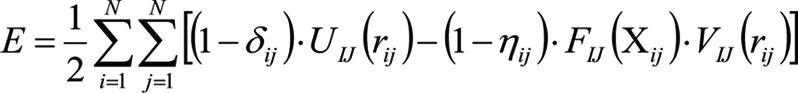
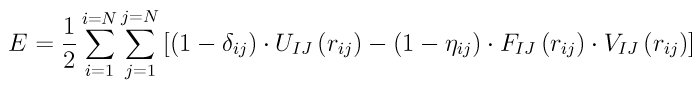
git-svn-id: svn://svn.icms.temple.edu/lammps-ro/trunk@13796 f3b2605a-c512-4ea7-a41b-209d697bcdaa

Changed region(s): [[0.0, 0.0, 1.0, 1.0], [0.33, 0.1111, 0.36, 0.1556]]

diff --git a/doc/Eqs/polymorphic7.tex b/doc/Eqs/polymorphic7.tex
@@ -1,0 +1,25 @@
+\documentclass[12pt]{article}
+
+\begin{document}
+
+\begin{eqnarray*}
+\left\{\begin{array}{l}
+\eta_{ij}=\delta_{ij},\xi_{IJ}=1 \\
+U_{IJ}\left(r\right)=\left\{\begin{array}{lr}
+A_{IJ}\cdot exp\left(-\lambda_{1,IJ}\cdot r\right)\cdot f_{c,IJ}\left(r\right), & r\leq r_{s,1,IJ} \\
+A_{IJ}\cdot exp\left(-\lambda_{1,IJ}\cdot r\right)\cdot f_{c,IJ}\left(r\right)\cdot f_{c,1,IJ}\left(r\right), & r_{s,1,IJ}<r<r_{c,1,IJ} \\
+0, & r\ge r_{c,1,IJ}
+\end{array}\right. \\
+V_{IJ}\left(r\right)=\left\{\begin{array}{lr}
+B_{IJ} \cdot exp\left(-\lambda_{2,IJ}\cdot r\right)\cdot f_{c,IJ}\left(r\right), & r\le r_{s,1,IJ} \\
+B_{IJ} \cdot exp\left(-\lambda_{2,IJ}\cdot r\right)\cdot f_{c,IJ}\left(r\right)+A_{IJ}\cdot exp\left(-\lambda_{1,IJ}\cdot r\right)\cdot & \\ ~~~~~~ f_{c,IJ}\left(r\right)\cdot \left[1-f_{c,1,IJ}\left(r\right)\right], & r_{s,1,IJ}<r<r_{c,1,IJ} \\
+B_{IJ} \cdot exp\left(-\lambda_{2,IJ}\cdot r\right)\cdot f_{c,IJ}\left(r\right)+A_{IJ}\cdot exp\left(-\lambda_{1,IJ}\cdot r\right)\cdot & \\ ~~~~~~ f_{c,IJ}\left(r\right) & r \ge r_{c,1,IJ}
+\end{array}\right. \\
+F_{IJ}\left(X\right)=\left[1+\left(\beta_{IJ}\cdot X\right)^{n_{IJ}}\right]^{-\frac{1}{2n_{IJ}}} \\
+P_{IJ}\left(\Delta r\right)=exp\left(\lambda_{3,IK}\cdot \Delta r^3\right) \\ 
+W_{IJ}\left(r\right)=f_{c,IK}\left(r\right) \\
+G_{JIK}\left(\theta\right)=1+\frac{c_{IK}^2}{d_{IK}^2}-\frac{c_{IK}^2}{d_{IK}^2+\left(h_{IK}+cos\theta\right)^2}
+\end{array}\right.
+\end{eqnarray*} 
+
+\end{document}

diff --git a/doc/Eqs/polymorphic4.tex b/doc/Eqs/polymorphic4.tex
@@ -1,0 +1,17 @@
+\documentclass[12pt]{article}
+
+\begin{document}
+
+\begin{eqnarray*}
+\left\{\begin{array}{l}
+\eta_{ij}=\delta_{ij},\xi_{IJ}=0 \\
+U_{IJ}\left(r\right)=A_{IJ}\cdot\epsilon_{IJ}\cdot \left(\frac{\sigma_{IJ}}{r}\right)^q\cdot \left[B_{IJ}\cdot \left(\frac{\sigma_{IJ}}{r}\right)^{p-q}-1\right]\cdot exp\left(\frac{\sigma_{IJ}}{r-a_{IJ}\cdot \sigma_{IJ}}\right) \\
+V_{IJ}\left(r\right)=\sqrt{\lambda_{IJ}\cdot \epsilon_{IJ}}\cdot exp\left(\frac{\gamma_{IJ}\cdot \sigma_{IJ}}{r-a_{IJ}\cdot \sigma_{IJ}}\right) \\ 
+F_{IJ}\left(X\right)=-X \\
+P_{IJ}\left(\Delta r\right)=1 \\ 
+W_{IJ}\left(r\right)=\sqrt{\lambda_{IJ}\cdot \epsilon_{IJ}}\cdot exp\left(\frac{\gamma_{IJ}\cdot \sigma_{IJ}}{r-a_{IJ}\cdot \sigma_{IJ}}\right) \\
+G_{JIK}\left(\theta\right)=\left(cos\theta+\frac{1}{3}\right)^2
+\end{array}\right.
+\end{eqnarray*} 
+
+\end{document}

diff --git a/doc/Eqs/polymorphic5.tex b/doc/Eqs/polymorphic5.tex
@@ -1,0 +1,17 @@
+\documentclass[12pt]{article}
+
+\begin{document}
+
+\begin{eqnarray*}
+\left\{\begin{array}{l}
+\eta_{ij}=\delta_{ij},\xi_{IJ}=1 \\
+U_{IJ}\left(r\right)=\frac{D_{e,IJ}}{S_{IJ}-1}\cdot exp\left[-\beta_{IJ}\sqrt{2S_{IJ}\left(r-r_{e,IJ}\right)}\right]\cdot f_{c,IJ}\left(r\right) \\
+V_{IJ}\left(r\right)=\frac{S_{IJ}\cdot D_{e,IJ}}{S_{IJ}-1}\cdot exp\left[-\beta_{IJ}\sqrt{\frac{2}{S_{IJ}}\left(r-r_{e,IJ}\right)}\right]\cdot f_{c,IJ}\left(r\right) \\
+F_{IJ}\left(X\right)=\left(1+X\right)^{-\frac{1}{2}} \\
+P_{IJ}\left(\Delta r\right)=exp\left(2\mu_{IK}\cdot \Delta r\right) \\ 
+W_{IJ}\left(r\right)=f_{c,IK}\left(r\right) \\
+G_{JIK}\left(\theta\right)=\gamma_{IK}\left[1+\frac{c_{IK}^2}{d_{IK}^2}-\frac{c_{IK}^2}{d_{IK}^2+\left(h_{IK}+cos\theta\right)^2}\right]
+\end{array}\right.
+\end{eqnarray*} 
+
+\end{document}

diff --git a/doc/Eqs/polymorphic9.tex b/doc/Eqs/polymorphic9.tex
@@ -1,0 +1,17 @@
+\documentclass[12pt]{article}
+
+\begin{document}
+
+\begin{eqnarray*}
+\left\{\begin{array}{l}
+\eta_{ij}=1-\delta_{ij},\xi_{IJ}=0 \\
+U_{IJ}\left(r\right)=\phi_{IJ}\left(r\right) \\
+V_{IJ}\left(r\right)=1 \\
+F_{II}\left(X\right)=-2F_I\left(X\right) \\
+P_{IJ}\left(\Delta r\right)=1 \\ 
+W_{IJ}\left(r\right)=f_{K}\left(r\right) \\
+G_{JIK}\left(\theta\right)=1
+\end{array}\right.
+\end{eqnarray*} 
+
+\end{document}

diff --git a/doc/Eqs/polymorphic8.tex b/doc/Eqs/polymorphic8.tex
@@ -1,0 +1,13 @@
+\documentclass[12pt]{article}
+
+\begin{document}
+
+\begin{eqnarray*}
+f_{c,1,IJ}=\left\{\begin{array}{lr}
+1, & r\leq r_{s,1,IJ} \\
+\frac{1}{2}+\frac{1}{2} cos \left[\frac{\pi \left(r-r_{s,1,IJ}\right)}{r_{c,1,IJ}-r_{s,1,IJ}}\right], & r_{s,1,IJ}<r<r_{c,1,IJ} \\
+0, & r \geq r_{c,1,IJ} \\
+\end{array}\right.
+\end{eqnarray*} 
+
+\end{document}

diff --git a/doc/Eqs/polymorphic6.tex b/doc/Eqs/polymorphic6.tex
@@ -1,0 +1,13 @@
+\documentclass[12pt]{article}
+
+\begin{document}
+
+\begin{eqnarray*}
+f_{c,IJ}=\left\{\begin{array}{lr}
+1, & r\leq r_{s,IJ} \\
+\frac{1}{2}+\frac{1}{2} cos \left[\frac{\pi \left(r-r_{s,IJ}\right)}{r_{c,IJ}-r_{s,IJ}}\right], & r_{s,IJ}<r<r_{c,IJ} \\
+0, & r \geq r_{c,IJ} \\
+\end{array}\right.
+\end{eqnarray*} 
+
+\end{document}

diff --git a/doc/Eqs/polymorphic1.tex b/doc/Eqs/polymorphic1.tex
@@ -1,0 +1,9 @@
+\documentclass[12pt]{article}
+
+\begin{document}
+
+$$
+E=\frac{1}{2}\sum_{i=1}^{i=N}\sum_{j=1}^{j=N}\left[\left(1-\delta_{ij}\right)\cdot U_{IJ}\left(r_{ij}\right)-\left(1-\eta_{ij}\right)\cdot F_{IJ}\left(r_{ij}\right)\cdot V_{IJ}\left(r_{ij}\right)\right]
+$$
+
+\end{document}

diff --git a/doc/Eqs/polymorphic2.tex b/doc/Eqs/polymorphic2.tex
@@ -1,0 +1,10 @@
+\documentclass[12pt]{article}
+
+\begin{document}
+
+$$
+X_{ij}=\sum_{k=i_1,k\neq i,j}^{i_N}W_{IK}\left(r_{ik}\right)\cdot G_{JIK}\left(\theta_{jik}\right)\cdot P_{IK}\left(\Delta r_{jik}\right)
+\label{X_eq2}
+$$
+
+\end{document}

diff --git a/doc/Eqs/polymorphic3.tex b/doc/Eqs/polymorphic3.tex
@@ -1,0 +1,10 @@
+\documentclass[12pt]{article}
+
+\begin{document}
+
+$$
+\Delta r_{jik}=r_{ij}-\xi_{IJ}\cdot r_{ik}
+\label{Dr_eq3}
+$$
+
+\end{document}
